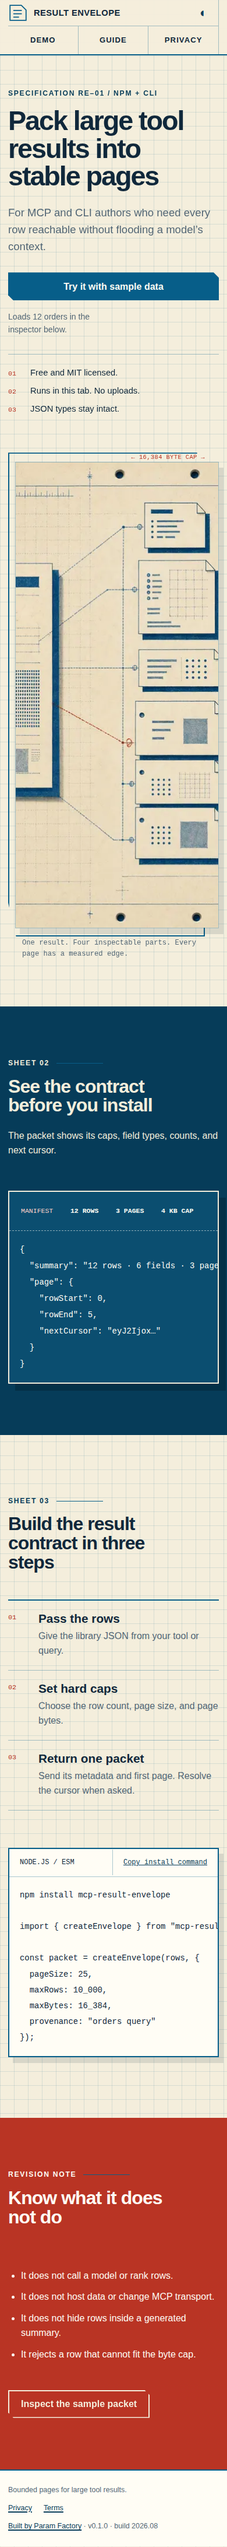
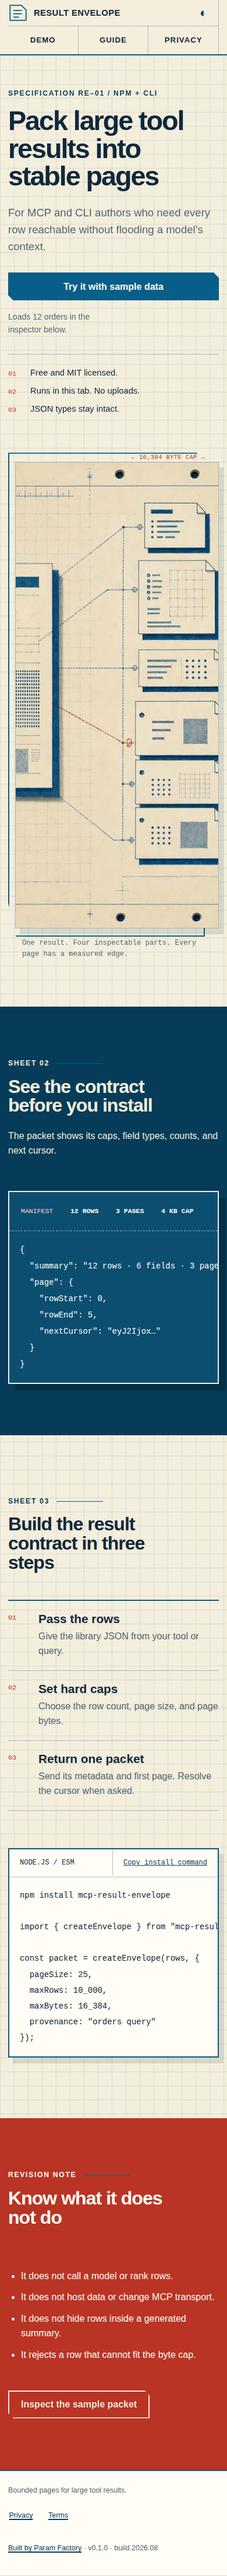
fix: repair stdin CLI and mobile touch targets

diff --git a/site/src/style.css b/site/src/style.css
@@ -5,8 +5,10 @@
   --ink: #10283b;
   --muted: #526675;
   --blueprint: #075e89;
+  --blueprint-contrast: #fffdf5;
   --blue-deep: #063c59;
   --signal: #b93424;
+  --signal-contrast: #fffdf5;
   --success: #176b4c;
   --danger: #a62d25;
   --grid: rgb(7 94 137 / 12%);
@@ -24,8 +26,10 @@
     --ink: #f5efdc;
     --muted: #b8c8d2;
     --blueprint: #5ac8f5;
+    --blueprint-contrast: #071a2a;
     --blue-deep: #beebff;
     --signal: #ff8a79;
+    --signal-contrast: #071a2a;
     --success: #7ee0b2;
     --danger: #ff958b;
     --grid: rgb(90 200 245 / 10%);
@@ -40,8 +44,10 @@
   --ink: #f5efdc;
   --muted: #b8c8d2;
   --blueprint: #5ac8f5;
+  --blueprint-contrast: #071a2a;
   --blue-deep: #beebff;
   --signal: #ff8a79;
+  --signal-contrast: #071a2a;
   --success: #7ee0b2;
   --danger: #ff958b;
   --grid: rgb(90 200 245 / 10%);
@@ -107,8 +113,7 @@ h3 { margin-bottom: 8px; font-size: 1.3rem; }
 .hero-actions > span { max-width: 23ch; color: var(--muted); font-size: 0.88rem; }
 .button { display: inline-flex; justify-content: center; align-items: center; min-height: 48px; padding: 11px 20px; border: 2px solid var(--blueprint); border-radius: 0; cursor: pointer; font-weight: 760; line-height: 1.2; text-decoration: none; clip-path: polygon(0 0, calc(100% - 9px) 0, 100% 9px, 100% 100%, 9px 100%, 0 calc(100% - 9px)); }
 .button:active { transform: translate(2px, 2px); }
-.button.primary { background: var(--blueprint); color: #fffdf5; }
-:root[data-theme="dark"] .button.primary { color: #071a2a; }
+.button.primary { background: var(--blueprint); color: var(--blueprint-contrast); }
 .button.secondary { background: var(--sheet); color: var(--blue-deep); }
 .button.inverse { border-color: var(--paper); color: var(--paper); }
 .button.full { width: 100%; }
@@ -145,15 +150,15 @@ h3 { margin-bottom: 8px; font-size: 1.3rem; }
 .code-title button { padding-inline: 18px; border: 0; border-left: 1px solid var(--rule); background: transparent; color: var(--blue-deep); cursor: pointer; text-decoration: underline; }
 .code-sheet pre { padding: 28px; line-height: 1.7; }
 
-.boundaries { padding-block: 88px; background: var(--signal); color: #fffdf5; }
-.boundaries h2, .boundaries .sheet-no { color: #fffdf5; }
+.boundaries { padding-block: 88px; background: var(--signal); color: var(--signal-contrast); }
+.boundaries h2, .boundaries .sheet-no { color: var(--signal-contrast); }
 .boundaries-grid { display: grid; grid-template-columns: 0.8fr 1.1fr auto; gap: 48px; align-items: center; }
 .boundaries ul { display: grid; gap: 12px; margin: 0; padding-left: 22px; }
 
-.demo-banner { display: flex; position: sticky; z-index: 20; top: 0; justify-content: center; gap: 40px; align-items: center; min-height: 42px; padding: 4px 20px; background: var(--signal); color: #fffdf5; font-size: 0.83rem; }
+.demo-banner { display: flex; position: sticky; z-index: 20; top: 0; justify-content: center; gap: 40px; align-items: center; min-height: 42px; padding: 4px 20px; background: var(--signal); color: var(--signal-contrast); font-size: 0.83rem; }
 .demo-banner > span { display: flex; gap: 14px; align-items: center; }
 .demo-banner em { padding-left: 12px; border-left: 1px solid rgb(255 255 255 / 55%); font-family: var(--mono); font-size: 0.68rem; font-style: normal; text-transform: uppercase; }
-.demo-banner button, .demo-banner a { min-height: 34px; padding: 5px 9px; border: 1px solid rgb(255 255 255 / 60%); background: transparent; color: inherit; cursor: pointer; font: inherit; }
+.demo-banner button, .demo-banner a { display: inline-flex; justify-content: center; align-items: center; min-width: 44px; min-height: 44px; padding: 5px 9px; border: 1px solid rgb(255 255 255 / 60%); background: transparent; color: inherit; cursor: pointer; font: inherit; }
 
 .inspector-main { padding-block: 72px 96px; }
 .inspector-head { margin-bottom: 44px; }
@@ -188,7 +193,7 @@ fieldset label { margin: 0; font-size: 0.76rem; }
 .meter-strip dd { margin: 3px 0 0; font-family: var(--mono); font-weight: 750; }
 .tabs { display: flex; overflow-x: auto; border-bottom: 2px solid var(--blueprint); }
 .tabs button { flex: 1; padding: 9px 14px; border: 0; border-right: 1px solid var(--rule); background: transparent; cursor: pointer; font-family: var(--display); font-size: 0.78rem; font-weight: 800; letter-spacing: 0.06em; text-transform: uppercase; }
-.tabs button[aria-selected="true"] { background: var(--blueprint); color: #fffdf5; }
+.tabs button[aria-selected="true"] { background: var(--blueprint); color: var(--blueprint-contrast); }
 .panel-stack { min-height: 395px; background: color-mix(in srgb, var(--paper) 72%, var(--sheet)); }
 .panel-stack section { max-height: 395px; padding: 20px; overflow: auto; }
 .panel-stack pre { overflow: visible; white-space: pre; line-height: 1.6; }
@@ -207,6 +212,7 @@ fieldset label { margin: 0; font-size: 0.76rem; }
 .footer-grid p { margin: 0; }
 .footer-grid p:last-child { text-align: right; }
 .footer-grid nav { display: flex; gap: 20px; }
+.footer-grid a { display: inline-flex; justify-content: center; align-items: center; min-width: 44px; min-height: 44px; }
 
 @keyframes draft-in {
   from { opacity: 0; transform: translate(12px, 8px); }

diff --git a/tests/e2e/site.spec.ts b/tests/e2e/site.spec.ts
@@ -65,12 +65,15 @@ test("every public route has no serious accessibility violations", async ({ page
   const errors: string[] = [];
   page.on("pageerror", (error) => errors.push(error.message));
   page.on("console", (message) => { if (message.type() === "error") errors.push(message.text()); });
-  for (const route of ["/", "/demo", "/inspect", "/privacy", "/terms", "/missing-sheet"]) {
-    await page.goto(route);
-    await expect(page.locator("main")).toHaveCount(1);
-    await expect(page.locator("h1")).toHaveCount(1);
-    const results = await new AxeBuilder({ page }).analyze();
-    expect(results.violations.filter((item) => ["serious", "critical"].includes(item.impact ?? "")), route).toEqual([]);
+  for (const colorScheme of ["light", "dark"] as const) {
+    await page.emulateMedia({ colorScheme });
+    for (const route of ["/", "/demo", "/inspect", "/privacy", "/terms", "/missing-sheet"]) {
+      await page.goto(route);
+      await expect(page.locator("main")).toHaveCount(1);
+      await expect(page.locator("h1")).toHaveCount(1);
+      const results = await new AxeBuilder({ page }).analyze();
+      expect(results.violations.filter((item) => ["serious", "critical"].includes(item.impact ?? "")), `${colorScheme} ${route}`).toEqual([]);
+    }
   }
   expect(errors).toEqual([]);
 });
@@ -81,6 +84,32 @@ test("mobile demo fits the viewport", async ({ page }, testInfo) => {
   const width = await page.evaluate(() => document.documentElement.scrollWidth);
   expect(width).toBeLessThanOrEqual(390);
   await expect(page.getByRole("button", { name: "Build the envelope" })).toBeVisible();
+
+  const controls = [
+    page.getByRole("button", { name: "Reset demo", exact: true }),
+    page.getByRole("link", { name: "Start for real", exact: true }),
+    page.getByRole("link", { name: "Privacy", exact: true }).last(),
+    page.getByRole("link", { name: "Terms", exact: true }),
+    page.getByRole("link", { name: "Built by Param Factory", exact: true })
+  ];
+  for (const control of controls) {
+    const box = await control.boundingBox();
+    const label = (await control.textContent()) ?? "mobile control";
+    expect(box, label).not.toBeNull();
+    expect(box!.width, label).toBeGreaterThanOrEqual(44);
+    expect(box!.height, label).toBeGreaterThanOrEqual(44);
+  }
+
+  const visibleInteractiveElements = page.locator(
+    'a[href], button, input, textarea, select, [tabindex]:not([tabindex="-1"])'
+  ).filter({ visible: true });
+  for (const control of await visibleInteractiveElements.all()) {
+    const box = await control.boundingBox();
+    const label = (await control.getAttribute("aria-label")) ?? (await control.textContent()) ?? "mobile control";
+    expect(box, label.trim()).not.toBeNull();
+    expect(box!.width, label.trim()).toBeGreaterThanOrEqual(44);
+    expect(box!.height, label.trim()).toBeGreaterThanOrEqual(44);
+  }
 });
 
 test("@claim:offline-reload reopens the demo after its first visit", async ({ page, context }, testInfo) => {

diff --git a/tests/unit/package.test.ts b/tests/unit/package.test.ts
@@ -1,4 +1,4 @@
-import { execFileSync } from "node:child_process";
+import { execFileSync, spawnSync } from "node:child_process";
 import { readFileSync, statSync } from "node:fs";
 import { join } from "node:path";
 import { describe, expect, it } from "vitest";
@@ -25,6 +25,19 @@ describe("package and CLI", () => {
   it("prints help and reports invalid JSON with exit code 2", () => {
     expect(execFileSync(process.execPath, ["dist/cli.js", "--help"], { encoding: "utf8" })).toContain("--max-bytes");
     expect(() => execFileSync(process.execPath, ["dist/cli.js", "pack", "-"], { input: "nope", encoding: "utf8", stdio: ["pipe", "pipe", "pipe"] })).toThrow(expect.objectContaining({ status: 2 }));
+  });
+
+  it("@claim:stream-order accepts the documented stdin marker and streams ordered NDJSON chunks", () => {
+    const result = spawnSync(
+      process.execPath,
+      ["dist/cli.js", "pack", "-", "--format", "ndjson", "--stream"],
+      { input: '{"id":1}\n{"id":2}\n', encoding: "utf8" }
+    );
+
+    expect(result.status).toBe(0);
+    expect(result.stderr).toBe("");
+    const chunks = result.stdout.trim().split("\n").map((line) => JSON.parse(line) as { type: string });
+    expect(chunks.map((chunk) => chunk.type)).toEqual(["manifest", "summary", "schema", "page"]);
   });
 
   it("runs the documented ESM example against the package exports", () => {

diff --git a/src/cli.ts b/src/cli.ts
@@ -49,7 +49,7 @@ function parseArgs(args: string[]): { command: string; file: string; options: Cl
   const command = args[0] && !args[0].startsWith("-") ? args[0] : "pack";
   let index = command === "pack" && args[0] !== "pack" ? 0 : 1;
   let file = "-";
-  if (args[index] && !args[index].startsWith("-")) file = args[index++];
+  if (args[index] && (args[index] === "-" || !args[index].startsWith("-"))) file = args[index++];
   const options: CliOptions = { format: "json", stream: false, compact: false };
   while (index < args.length) {
     const flag = args[index++];

diff --git a/tests/unit/envelope.test.ts b/tests/unit/envelope.test.ts
@@ -73,7 +73,7 @@ describe("createEnvelope", () => {
     expect(() => getEnvelopePage(rows, "bad", { pageSize: 2 })).toThrowError(/cursor/);
   });
 
-  it("@claim:stream-order yields metadata before bounded pages", async () => {
+  it("yields metadata before bounded pages", async () => {
     const chunks = [];
     for await (const chunk of streamEnvelope(rows, { pageSize: 5 })) chunks.push(chunk);
     expect(chunks.map((chunk) => chunk.type)).toEqual(["manifest", "summary", "schema", "page", "page", "page"]);

diff --git a/.factory/handoff.md b/.factory/handoff.md
@@ -1,61 +1,48 @@
-# Result Envelope v0.1.0 handoff
+# Result Envelope v0.1.0 repair handoff
 
-Completed 2026-08-28 for work order `mcp-result-envelope-build-1`.
+Completed 2026-08-28 for work order `mcp-result-envelope-repair-1` against verifier report commit `8f2788a6b4b26aa0b214a3bccd6e21484dfe225d` and candidate `3c80be2bbc2559e1cac5dbe960fffb59b3332f6a`.
 
-## What shipped
+## Repaired findings
 
-- A zero-runtime-dependency TypeScript library with ESM, CommonJS, and declaration outputs.
-- `createEnvelope`, `getEnvelopePage`, and `streamEnvelope` as the complete public API.
-- Typed manifests, compact summaries, inferred JSON schemas, provenance, deterministic cursors, and bounded pages.
-- Enforced row, page-size, and serialized byte caps with clear typed errors.
-- A JSON and NDJSON CLI with `pack`, `page`, `--stream`, `--help`, and `demo` paths.
-- A bundled 12-order sample. The CLI demo writes into a fresh operating-system temporary directory.
-- A local browser inspector with sample and empty modes, editable JSON, cap controls, output tabs, paging, reset, and offline reload.
-- Static routes for `/`, `/demo`, `/inspect`, `/privacy`, `/terms`, and a designed 404 state.
-- The original blueprint drafting-sheet identity, generated hero, social card, favicon, light and dark treatments, and reduced-motion fallback.
-- Claim inventory, copy audit, demo contract, README, changelog, MIT license, sitemap, robots file, CSP, and service worker.
+- The CLI parser now treats a literal `-` as the documented stdin file marker. The exact command `printf '{"id":1}\n{"id":2}\n' | result-envelope pack - --format ndjson --stream` exits 0 and emits manifest, summary, schema, and page chunks in order.
+- Demo actions and footer links now have explicit 44 px minimum hit areas. At 390 px, Reset demo is 91.5 × 44, Start for real is 93 × 44, Privacy and Terms are 44 × 44, and Built by Param Factory is 126.1 × 44 CSS px.
+- The full audit also found and fixed dark-theme contrast on filled blueprint and revision controls. Product-specific foreground tokens now keep both color treatments accessible.
 
-## Build and run
+## Regression coverage
+
+- `tests/unit/package.test.ts` runs the documented NDJSON stdin invocation against the built CLI, asserts exit 0 and empty stderr, parses every output line, and checks the exact chunk order.
+- `tests/e2e/site.spec.ts` measures each verifier-reported control and every other visible interactive element at a 390 px viewport, requiring both dimensions to be at least 44 px.
+- The route-wide axe sweep now covers light and dark treatments across `/`, `/demo`, `/inspect`, `/privacy`, `/terms`, and the designed missing route.
+- `.factory/claims.json` points the stream-order claim at the public CLI regression and builds the CLI before that isolated claim test.
+
+## Verification evidence
+
+- Clean install: `npm ci` installed 93 packages with zero known vulnerabilities.
+- Complete gate: `npm test` passed typecheck, clean library and site builds, 14 unit/CLI tests, and 14 browser runs; two tests skipped only on their documented non-target profiles.
+- Claims: all 11 commands in `.factory/claims.json` passed independently.
+- Package: `npm run pack:check` passed. The tarball is 9,683 bytes, contains 10 declared files, and worked from a fresh external consumer through ESM import, CommonJS require, cursor paging, async streaming, and the stdin CLI command.
+- Browser: desktop and 390 px mobile passed the full route, navigation, form error, paging, keyboard tab, privacy, demo-memory, offline reload, overflow, console, and accessibility checks.
+- Accessibility: Playwright axe found zero serious or critical violations on all six route states in light and dark. The first keyboard Tab reaches the skip link with a 3 px focus outline. Reduced-motion mode has no running animation.
+- Privacy: the complete demo edit flow made same-origin requests only, never included edited input in a URL, and left cookies, local storage, and session storage empty.
+- Factory URL probe against the local production build returned 200 with no console errors, a title, `lang`, one h1, one main, alt text, and labeled buttons.
+- Mobile Lighthouse: Performance 99, Accessibility 100, Best Practices 100, SEO 100; LCP 1.668 s, CLS 0, TBT 76 ms. Summary: `.factory/evidence/lighthouse-summary.json`.
+- Initial payload: JavaScript 8,635 bytes gzip; CSS 4,273 bytes gzip; hero WebP 98,348 bytes.
+
+## Build, package, and deploy
 
 ```sh
-npm install
+npm ci
 npm test
-npm run build
-npm run dev
+npm run build:site
+npm run pack:check
+/opt/fleet/lib/deploy-static.sh mcp-result-envelope dist/site
 ```
 
-- Required static-site command: `npm run build:site`
-- Deploy directory: `dist/site`
-- Deploy entry: `dist/site/index.html`
-- Package readiness: `npm run pack:check`
-- CLI sandbox: `node dist/cli.js demo`
-- Browser sandbox: `/demo` or `/?demo=1`
+The static deployment root remains `dist/site`, with `index.html` at its root. The npm artifact remains a zero-runtime-dependency ESM + CommonJS + declarations library with its CLI. Registry publication remains factory-owned and was not attempted.
 
-## Verification
+## Known constraints
 
-- `npm test`: passed. This includes type checking, a clean build, 13 unit and CLI tests, and 14 browser checks. Two project-specific checks skip on their non-target profile.
-- Desktop and 390 px Chromium: passed navigation, keyboard tabs, empty state, invalid input, paging, reset, privacy, offline reload, and no-upload checks.
-- Axe Playwright sweep: zero serious or critical violations across all six route states in both browser profiles.
-- `npx @axe-core/cli / /demo`: zero violations on both pages.
-- Factory `verify-url.sh`: 200 response, no console errors, title and language present, one h1, one main, no missing alt text, and no unlabeled buttons.
-- Lighthouse mobile: Performance 100, Accessibility 100, Best Practices 100, SEO 100. LCP 1.7 s, CLS 0, TBT 30 ms.
-- Initial site payload: 8.64 KB JavaScript gzip, 4.23 KB CSS gzip, 97 KB hero WebP.
-- `npm pack --dry-run`: passed; 9.6 KB tarball with ESM, CommonJS, declarations, CLI, examples, and legal files.
-- ESM import, CommonJS require, CLI JSON output, and executable mode: checked directly.
-- `npm audit`: zero known vulnerabilities.
-
-Evidence is in `.factory/evidence/`. Claim commands and sandbox details are in `.factory/claims.json`.
-
-## Known gaps and next steps
-
-- The factory still needs to publish the npm package and deploy `dist/site`; no registry or infrastructure action was taken here.
-- Cursors identify a deterministic result snapshot but are not authorization tokens. Callers must apply access control before returning pages.
+- Cursors identify a deterministic result snapshot; callers still enforce authorization before returning pages.
 - Stable paging assumes the caller reruns the same ordered query with the same options.
-- `streamEnvelope` is an async iterator. It does not add streaming support to MCP transports.
-- The brief’s 20-response, 50%-token benchmark remains post-release validation. The site makes no unverified token-savings claim.
-
-## Independent verifier outcome — 2026-08-28
-
-**FAIL — do not release candidate `3c80be2bbc2559e1cac5dbe960fffb59b3332f6a`.**
-
-All 11 claims, `npm test`, build, package dry-run, live first-read, deployment parity, browser/a11y checks, and privacy checks passed. However, the README’s documented core CLI stdin command (`cat results.ndjson | result-envelope pack - --format ndjson --stream`) exits 2 with `Unknown option: -` instead of producing an envelope. At 390 px, Reset demo, Start for real, and footer links are also smaller than the required 44 px touch target. Full independent evidence and retest criteria: `.factory/verification-1.md`.
+- `streamEnvelope` is an async iterator and does not add streaming support to MCP transports.
+- The brief’s 20-response, 50%-token benchmark remains post-release research. No product copy makes that unverified claim.

diff --git a/.factory/design.md b/.factory/design.md
@@ -15,8 +15,10 @@ This fits the product because the library makes large, vague results bounded and
 | `--ink` | `#10283B` | `#F5EFDC` | body text |
 | `--muted` | `#526675` | `#B8C8D2` | secondary copy |
 | `--blueprint` | `#075E89` | `#5AC8F5` | rules, links, focus |
+| `--blueprint-contrast` | `#FFFDF5` | `#071A2A` | text on blueprint fills |
 | `--blue-deep` | `#063C59` | `#BEEBFF` | headings and strong marks |
 | `--signal` | `#B93424` | `#FF8A79` | revision marks and warnings |
+| `--signal-contrast` | `#FFFDF5` | `#071A2A` | text on revision fills |
 | `--success` | `#176B4C` | `#7EE0B2` | valid packet state |
 | `--danger` | `#A62D25` | `#FF958B` | input errors |
 
